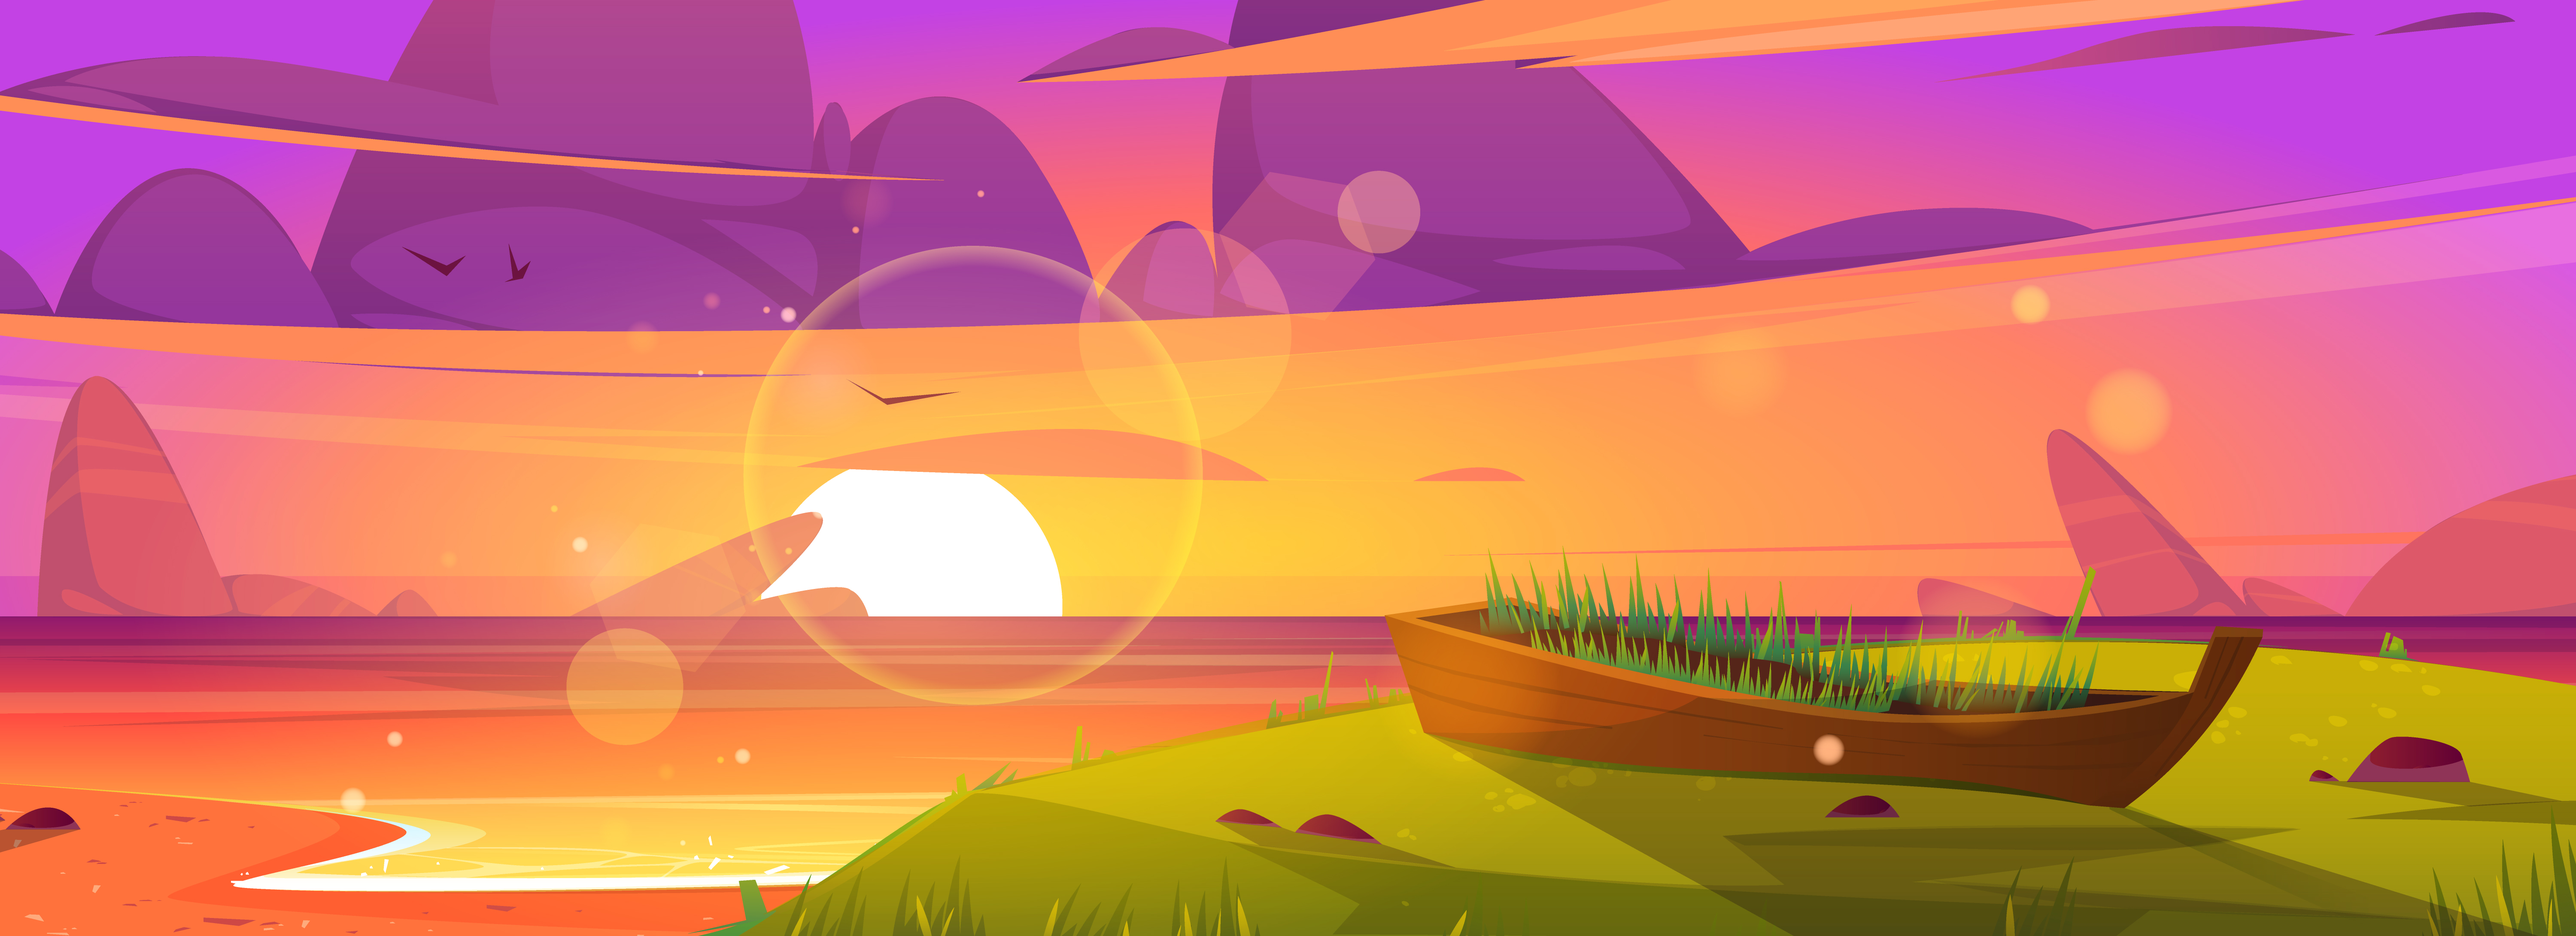
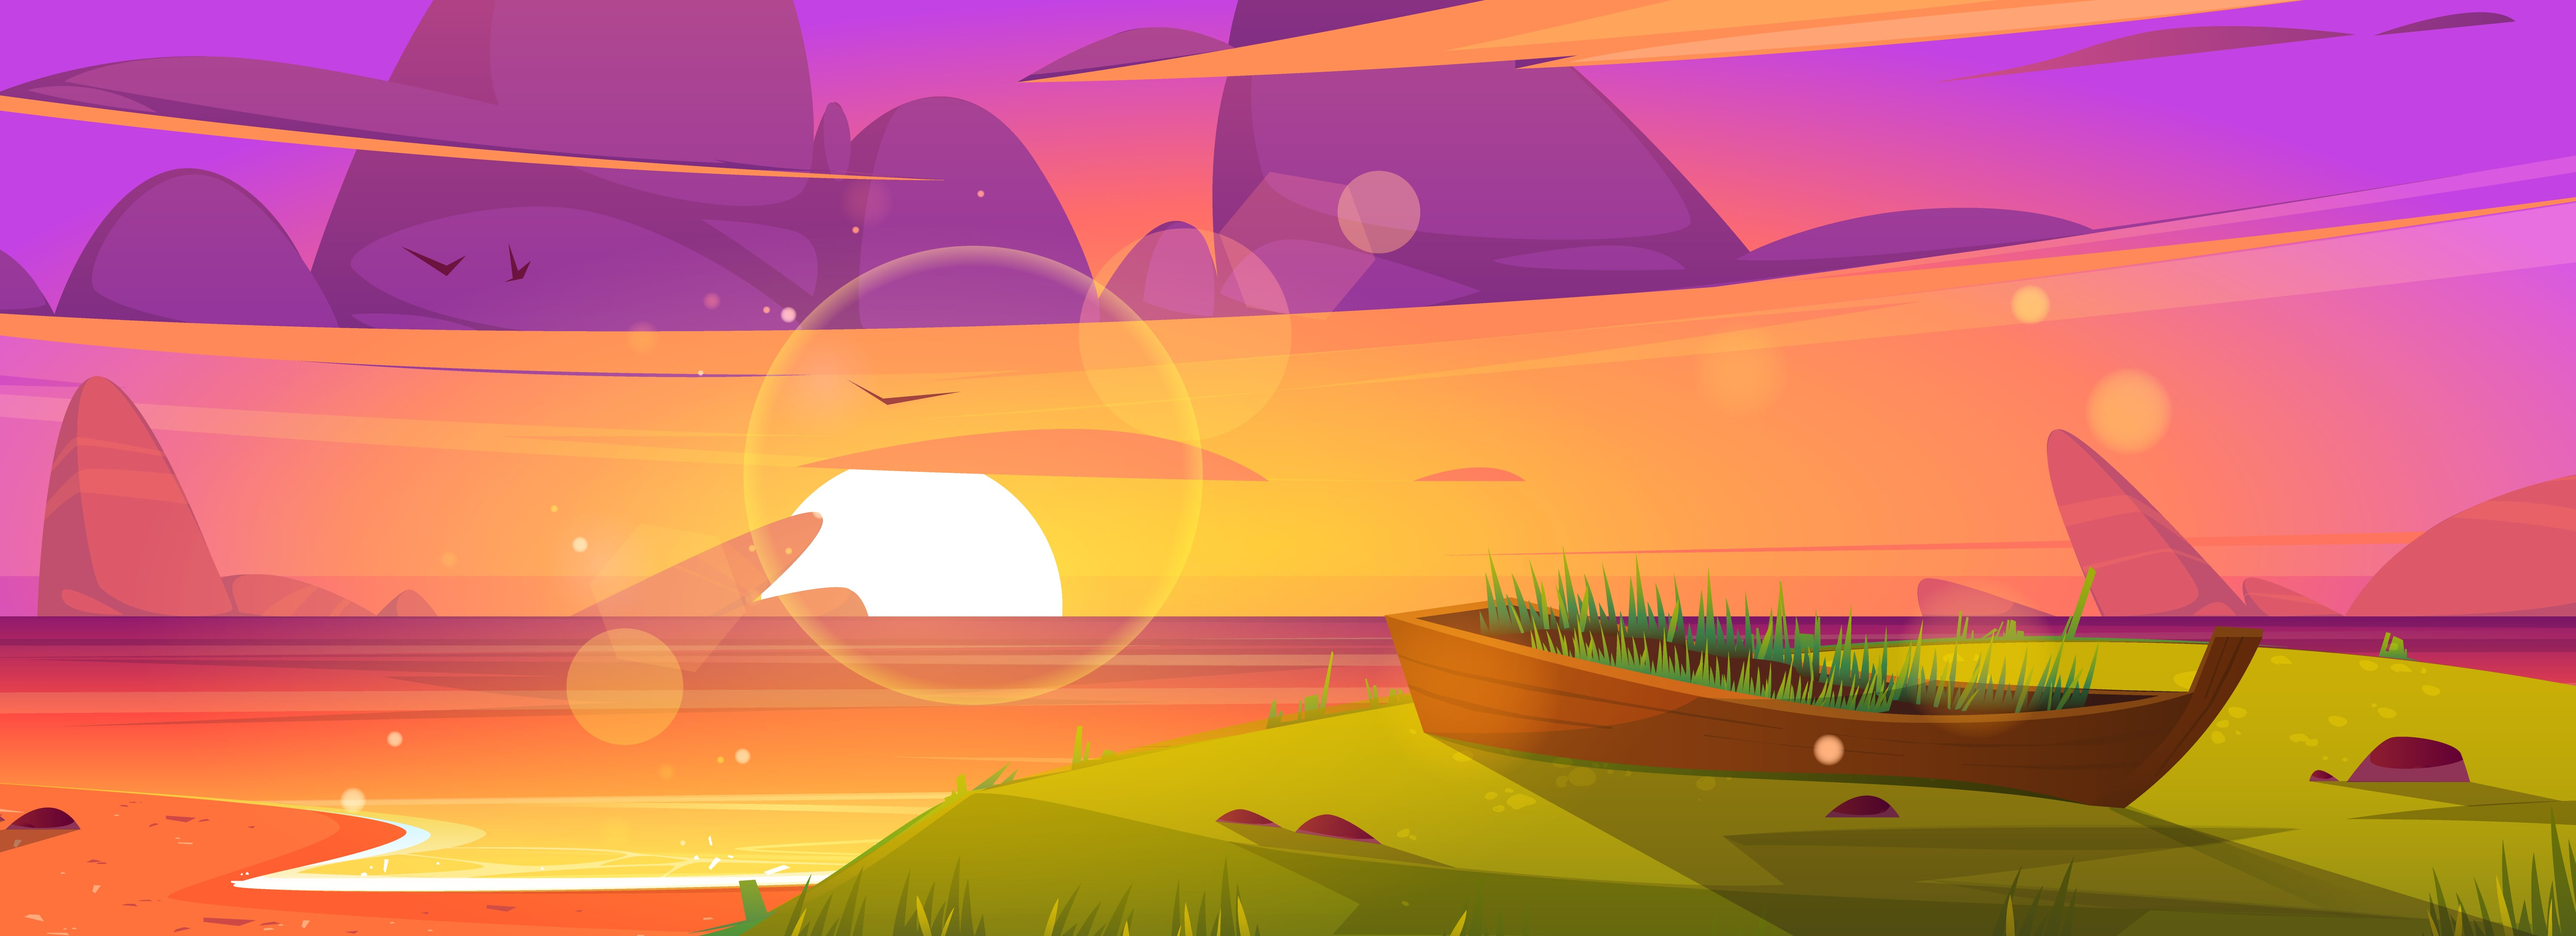
compress image

Changed region(s): [[0.6545, 0.6544, 0.7168, 0.6856]]

diff --git a/index.html b/index.html
@@ -82,17 +82,6 @@
     <div class="posts-container">
 
         <div class="post">
-            <img src="images/banner2.jpg" class="image">
-            <div class="date">
-                <i class="far fa-clock"></i>
-                <span>1st may, 2024</span>
-            </div>
-            <h3 class="title">blog title goes here</h3>
-            <p class="text">Lorem ipsum dolor sit amet consectetur adipisicing elit. Earum molestias rerum numquam, quos aut est culpa quisquam excepturi sed a inventore dicta tempore consequuntur possimus magnam corporis cum doloremque quasi fugiat exercitationem aliquid cupiditate pariatur. Dolor laboriosam voluptatem ex praesentium magni error debitis maxime alias autem distinctio. Fuga, esse velit!</p>
-            <p class="text">Lorem ipsum dolor sit amet consectetur adipisicing elit. Architecto, reiciendis fugiat quas nemo quia omnis repellat obcaecati quaerat voluptates fuga error dicta cupiditate pariatur soluta dolorum quis eum quibusdam quam?</p>
-        </div>
-
-        <div class="post">
             <img src="images/banner3.jpg " alt="" class="image">
             <div class="date">
                 <i class="far fa-clock"></i>

diff --git a/js/script.js b/js/script.js
@@ -56,3 +56,4 @@ setInterval(nextSlide, 8000);
 showSlide(currentIndex);
 
 console.log( document.querySelectorAll('.faq-question'));
+

diff --git a/testimonials.html b/testimonials.html
@@ -151,6 +151,9 @@
     revealOnScroll();
 });
 </script>
+
+<script src="js/script.js"></script>
+
 </body>
 </html>
 

diff --git a/programs.html b/programs.html
@@ -204,6 +204,7 @@
         });
     });
 </script>
-    
+<script src="js/script.js"></script>
+
 </body>
 </html>

diff --git a/about_me.html b/about_me.html
@@ -169,6 +169,6 @@
     });
 
 </script>
-    
+<script src="js/script.js"></script>
 </body>
 </html>
